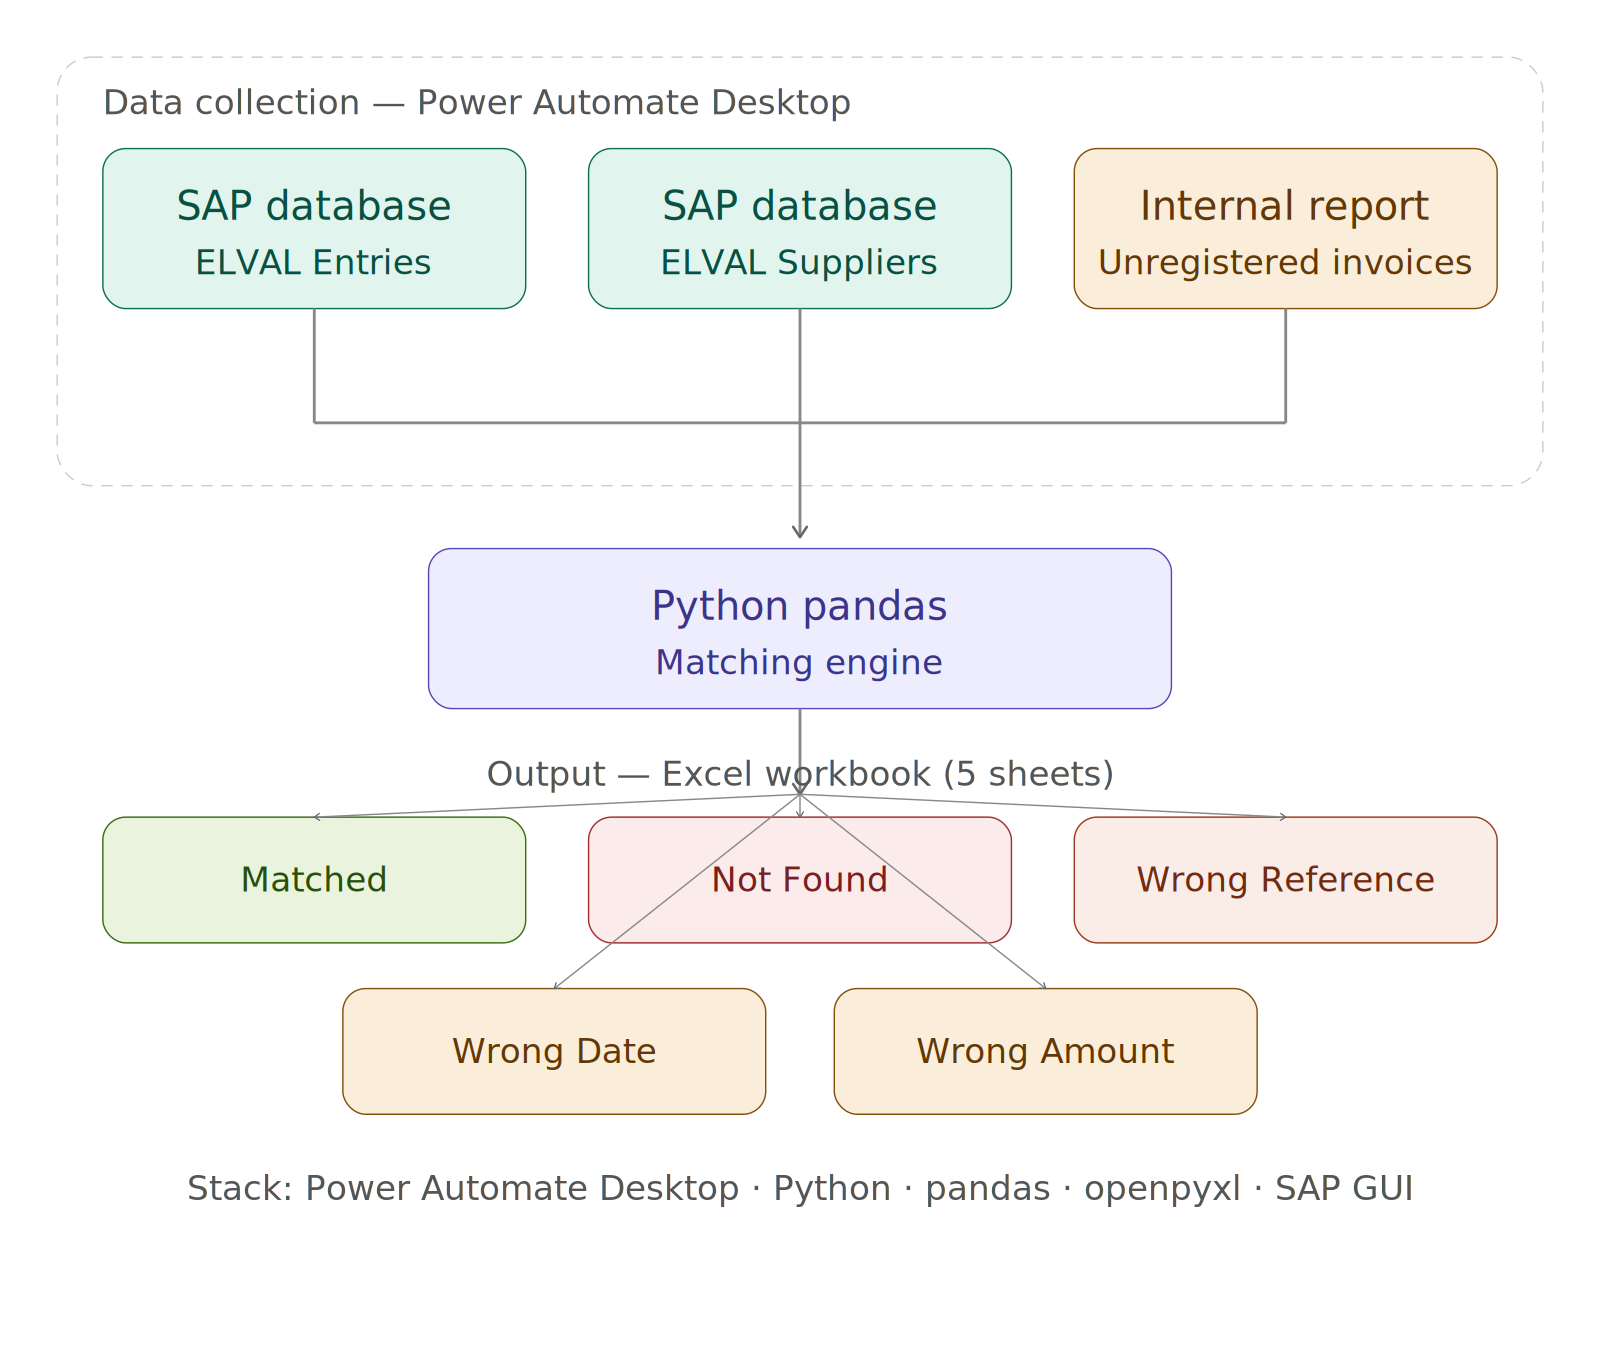
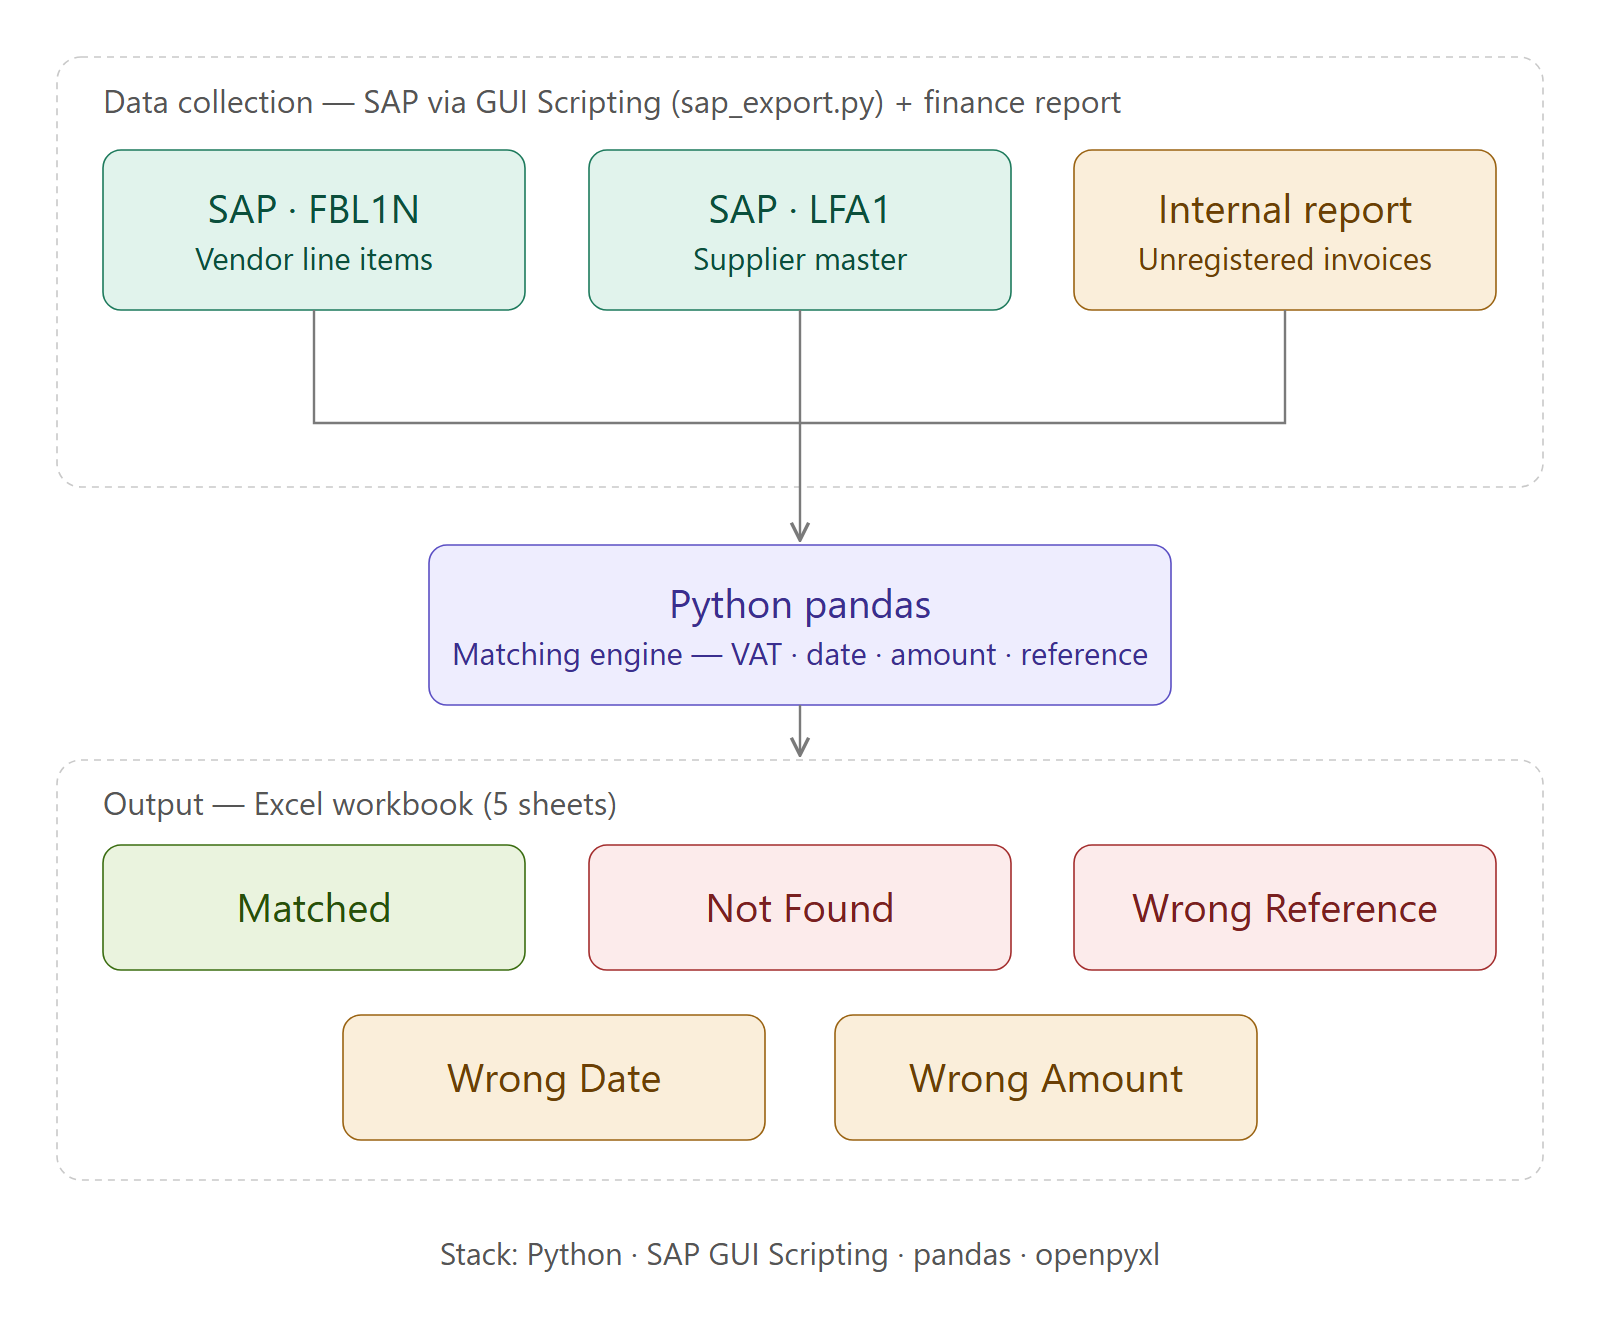
Add SAP GUI Scripting export (FBL1N + supplier master)
- sap_export.py: vendor line items (FBL1N) and supplier master (LFA1) exported via SAP GUI Scripting
- Handles 'file does not exist' exports, ASCII temp target, package-wise grid loading, new-file detection
- README: SAP export section with production lessons; updated workflow diagram

diff --git a/sap_export.py b/sap_export.py
@@ -1,0 +1,286 @@
+# ==============================================================================
+# sap_export.py — pulls the two SAP inputs of the reconciliation engine through
+# the SAP GUI Scripting API (no keystrokes, no screen coordinates):
+#
+#   1. Supplier master data  — custom table viewer on LFA1  -> SUPPLIERS_FILE
+#   2. Vendor line items     — FBL1N (company code, vendor ranges, posting dates,
+#                              saved layout)                -> LINE_ITEMS_FILE
+#
+# Display / export only — nothing is ever saved in SAP.
+#
+# Lessons from production built into the code:
+#   * The custom table export only accepts a target file that ALREADY exists
+#     ("File does not exist"), so an empty workbook is created first and the
+#     script waits for it to CHANGE, not merely to exist.
+#   * SAP writes the file to a plain-ASCII temp folder; Python moves it to the
+#     final (possibly non-ASCII) folder/name afterwards.
+#   * Large tables reach the GUI in several packages — the export starts only
+#     after the grid holds every row announced in the window title.
+#   * Every step logs the status bar and the open SAP windows, so a failed run
+#     can be diagnosed from the log alone.
+# ==============================================================================
+
+from __future__ import annotations
+
+import logging
+import os
+import re
+import shutil
+import subprocess
+import time
+from datetime import date
+from pathlib import Path
+
+import keyring
+import win32com.client
+import win32event
+from dateutil.relativedelta import relativedelta
+
+log = logging.getLogger("sap_export")
+
+# ── Configuration (placeholders) ──────────────────────────────────────────────
+SAP_CONNECTION = "YOUR_SAP_CONNECTION"
+SAP_CLIENT = "YOUR_CLIENT"
+SAP_USER = "YOUR_SAP_USER"
+KEYRING_SERVICE = "YOUR_SAP_KEYRING"          # python -m keyring set YOUR_SAP_KEYRING YOUR_SAP_USER
+SAP_MUTEX_NAME = "Global\\SAP_Automation_Lock"  # shared by every script that drives SAP
+
+COMPANY_CODE = "YOUR_COMPANY_CODE"
+VENDOR_RANGES = ["YOUR_VENDOR_RANGE_1*", "YOUR_VENDOR_RANGE_2*"]
+FBL1N_LAYOUT = "/YOUR_LAYOUT"
+TABLE_VIEWER_TCODE = "YOUR_TABLE_VIEWER"       # custom table display transaction
+
+EXPORT_DIR = Path(os.environ["LOCALAPPDATA"]) / "Temp" / "sap_export"   # ASCII only
+LOAD_DELAY = 30     # seconds to let a large grid settle before exporting
+STEP_DELAY = 5      # seconds before each export / save click
+
+MULTISEL = ("wnd[1]/usr/tabsTAB_STRIP/tabpSIVA/ssubSCREEN_HEADER:SAPLALDB:3010/"
+            "tblSAPLALDBSINGLE/ctxtRSCSEL_255-SLOW_I")
+
+
+def fmt_duration(seconds: float) -> str:
+    m, s = divmod(int(round(seconds)), 60)
+    return f"{m}m {s}s" if m else f"{s}s"
+
+
+# ── SAP session ───────────────────────────────────────────────────────────────
+
+def close_sap() -> None:
+    for proc in ("saplogon.exe", "saplgpad.exe", "sapgui.exe", "nwbc.exe"):
+        subprocess.call(["taskkill", "/F", "/T", "/IM", proc],
+                        stderr=subprocess.DEVNULL, stdout=subprocess.DEVNULL)
+
+
+def sap_wait(session, timeout: float = 300) -> None:
+    end = time.time() + timeout
+    while time.time() < end:
+        try:
+            if not session.Busy:
+                return
+        except Exception:
+            return
+        time.sleep(0.5)
+
+
+def sap_login():
+    password = keyring.get_password(KEYRING_SERVICE, SAP_USER)
+    if not password:
+        raise RuntimeError(f"No password in Credential Manager: python -m keyring set {KEYRING_SERVICE} {SAP_USER}")
+    close_sap()
+    time.sleep(2)
+    subprocess.Popen('start "" saplogon.exe', shell=True)
+    time.sleep(3)
+    gui = None
+    for _ in range(30):
+        try:
+            gui = win32com.client.GetObject("SAPGUI")
+            break
+        except Exception:
+            time.sleep(1)
+    if gui is None:
+        raise RuntimeError("SAP GUI Scripting engine not found (timeout).")
+    session = gui.GetScriptingEngine.OpenConnection(SAP_CONNECTION, True).Children(0)
+    time.sleep(1)
+    session.findById("wnd[0]/usr/txtRSYST-MANDT").text = SAP_CLIENT
+    session.findById("wnd[0]/usr/txtRSYST-BNAME").text = SAP_USER
+    session.findById("wnd[0]/usr/pwdRSYST-BCODE").text = password
+    session.findById("wnd[0]/usr/txtRSYST-LANGU").text = "EN"
+    session.findById("wnd[0]").sendVKey(0)
+    sap_wait(session)
+    sbar = session.findById("wnd[0]/sbar")
+    if sbar.MessageType in ("E", "A"):
+        raise RuntimeError(f"SAP login: {sbar.Text}")
+    session.findById("wnd[0]").maximize()
+    return session
+
+
+def sap_tcode(session, code: str) -> None:
+    session.findById("wnd[0]/tbar[0]/okcd").text = f"/n{code}"
+    session.findById("wnd[0]").sendVKey(0)
+    sap_wait(session)
+
+
+def sap_state(session, step: str) -> None:
+    """Log what SAP shows: status bar, open windows, and the path/file fields as SAP reads them back."""
+    try:
+        sbar = session.findById("wnd[0]/sbar")
+        log.debug(f"  [{step}] wnd[0]='{session.findById('wnd[0]').Text}' | sbar {sbar.MessageType}: '{sbar.Text}'")
+    except Exception as e:
+        log.debug(f"  [{step}] SAP not responding: {e}")
+        return
+    for n in (1, 2):
+        try:
+            w = session.findById(f"wnd[{n}]")
+        except Exception:
+            continue
+        extra = ""
+        for fld in ("DY_PATH", "DY_FILENAME"):
+            try:
+                extra += f" | {fld}='{session.findById(f'wnd[{n}]/usr/ctxt{fld}').text}'"
+            except Exception:
+                pass
+        log.debug(f"  [{step}] wnd[{n}]='{w.Text}'{extra}")
+
+
+# ── Export helpers ────────────────────────────────────────────────────────────
+
+def wait_grid_loaded(session, grid_id: str, title: str, timeout: float = 600) -> None:
+    """Large tables arrive in packages: wait until RowCount reaches the 'Rows N' of the window title."""
+    m = re.search(r"(?:Rows|Γραμμές)\s+([\d.,]+)", title)
+    expected = int(re.sub(r"[.,]", "", m.group(1))) if m else None
+    t = time.time()
+    while time.time() - t < timeout:
+        sap_wait(session, timeout)
+        try:
+            rows = session.findById(grid_id).RowCount
+        except Exception:
+            rows = None
+        if expected is None or (rows is not None and rows >= expected):
+            log.info(f"  grid loaded: {rows} / {expected} rows in {fmt_duration(time.time() - t)}")
+            return
+        time.sleep(1)
+    log.warning(f"  grid did not reach {expected} rows in {fmt_duration(timeout)} — continuing")
+
+
+def save_dialog(session, final_path: Path, sap_name: str, precreate: bool = False, timeout: float = 300) -> None:
+    """Fill SAP's Directory/File dialog with an ASCII temp target, wait for a NEW file, move it to final_path.
+    The old final file is replaced only after a successful export."""
+    EXPORT_DIR.mkdir(parents=True, exist_ok=True)
+    path = EXPORT_DIR / sap_name
+    path.unlink(missing_ok=True)
+    if precreate:
+        from openpyxl import Workbook
+        Workbook().save(path)               # the custom export only overwrites existing files
+    before = (path.stat().st_mtime, path.stat().st_size) if path.exists() else None
+
+    session.findById("wnd[1]/usr/ctxtDY_PATH").text = str(EXPORT_DIR)
+    session.findById("wnd[1]/usr/ctxtDY_FILENAME").text = sap_name
+    sap_state(session, "dialog filled")
+    time.sleep(STEP_DELAY)
+    session.findById("wnd[1]/tbar[0]/btn[0]").press()
+    sap_wait(session, timeout)
+    sap_state(session, "after Continue")
+    for _ in range(2):                      # dialog still open -> SAP wants a second confirmation
+        try:
+            session.findById("wnd[1]/usr/ctxtDY_FILENAME")
+        except Exception:
+            break
+        time.sleep(STEP_DELAY)
+        session.findById("wnd[1]/tbar[0]/btn[0]").press()
+        sap_wait(session, timeout)
+
+    def written() -> bool:
+        if not path.exists():
+            return False
+        st = path.stat()
+        if before and (st.st_mtime, st.st_size) == before:
+            return False
+        time.sleep(2)
+        return path.stat().st_size == st.st_size      # finished writing
+
+    t = time.time()
+    while not written():
+        if time.time() - t > timeout:
+            sap_state(session, "file not found")
+            raise RuntimeError(f"SAP export did not produce {sap_name}")
+        time.sleep(1)
+    log.debug(f"  {sap_name}: {path.stat().st_size:,} bytes in {fmt_duration(time.time() - t)}")
+    final_path.parent.mkdir(parents=True, exist_ok=True)
+    shutil.move(str(path), str(final_path))
+
+
+def export_suppliers(session, target: Path) -> None:
+    """Supplier master (LFA1) via the custom table viewer, display mode only."""
+    sap_tcode(session, TABLE_VIEWER_TCODE)
+    session.findById("wnd[0]/usr/ctxtTABNAME").text = "LFA1"
+    session.findById("wnd[0]/usr/chkDISP").selected = True         # display only
+    session.findById("wnd[0]/tbar[1]/btn[8]").press()               # Execute
+    sap_wait(session, 600)
+    grid = "wnd[0]/usr/shell/shellcont[1]/shell"
+    wait_grid_loaded(session, grid, session.findById("wnd[0]").Text)
+    time.sleep(LOAD_DELAY)
+    t = time.time()
+    session.findById(grid).pressToolbarButton("EXPR")              # export to Excel
+    sap_wait(session, 600)
+    log.info(f"  export dialog opened in {fmt_duration(time.time() - t)}")
+    time.sleep(LOAD_DELAY)
+    save_dialog(session, target, "LFA1.xlsx", precreate=True)
+    log.info(f"Saved: {target.name}")
+
+
+def export_line_items(session, target: Path) -> None:
+    """FBL1N: vendor ranges (multiple selection), company code, all items,
+    posting dates from 1 Jan of (today - 7 months) to today, saved layout."""
+    year = (date.today() - relativedelta(months=7)).year
+    date_from, date_to = f"01.01.{year}", date.today().strftime("%d.%m.%Y")
+    sap_tcode(session, "FBL1N")
+    session.findById("wnd[0]/usr/btn%_KD_LIFNR_%_APP_%-VALU_PUSH").press()   # multiple selection
+    sap_wait(session)
+    for i, v in enumerate(VENDOR_RANGES):
+        session.findById(f"{MULTISEL}[1,{i}]").text = v
+    session.findById("wnd[1]/tbar[0]/btn[8]").press()                        # Copy
+    sap_wait(session)
+    session.findById("wnd[0]/usr/ctxtKD_BUKRS-LOW").text = COMPANY_CODE
+    session.findById("wnd[0]/usr/radX_AISEL").select()                        # all items
+    session.findById("wnd[0]/usr/ctxtSO_BUDAT-LOW").text = date_from
+    session.findById("wnd[0]/usr/ctxtSO_BUDAT-HIGH").text = date_to
+    session.findById("wnd[0]/usr/ctxtPA_VARI").text = FBL1N_LAYOUT
+    session.findById("wnd[0]/tbar[1]/btn[8]").press()                        # Execute
+    sap_wait(session, 600)
+    log.info(f"FBL1N {COMPANY_CODE} {date_from} - {date_to}: {session.findById('wnd[0]/sbar').Text}")
+    time.sleep(STEP_DELAY)
+    session.findById("wnd[0]/mbar/menu[0]/menu[3]/menu[1]").select()        # List > Export > Spreadsheet
+    sap_wait(session)
+    time.sleep(STEP_DELAY)
+    session.findById("wnd[1]/tbar[0]/btn[0]").press()                        # format: XLSX
+    sap_wait(session)
+    save_dialog(session, target, "FBL1N.xlsx")
+    log.info(f"Saved: {target.name}")
+
+
+def run(suppliers_file: Path, line_items_file: Path, suppliers: bool = True) -> None:
+    """One SAP login for both exports; SAP is always closed at the end."""
+    t = time.time()
+    mutex = win32event.CreateMutex(None, False, SAP_MUTEX_NAME)
+    win32event.WaitForSingleObject(mutex, win32event.INFINITE)
+    session = None
+    try:
+        session = sap_login()
+        if suppliers:
+            export_suppliers(session, suppliers_file)
+        export_line_items(session, line_items_file)
+    except Exception:
+        if session is not None:
+            sap_state(session, "ERROR")
+        raise
+    finally:
+        close_sap()
+        win32event.ReleaseMutex(mutex)
+    log.info(f"SAP closed — SAP time: {fmt_duration(time.time() - t)}")
+
+
+if __name__ == "__main__":
+    logging.basicConfig(level=logging.INFO, format="%(asctime)s [%(levelname)s] %(message)s")
+    log.setLevel(logging.DEBUG)
+    out = Path(r"C:\Users\YOUR_USERNAME\Desktop\MATCHING REPORT")
+    run(out / "SUPPLIERS.xlsx", out / "LINE_ITEMS.xlsx")

diff --git a/README.md b/README.md
@@ -22,7 +22,25 @@ This engine automates the entire matching process and produces a structured outp
 | `ΠΡΟΜΗΘΕΥΤΕΣ.xlsx` | SAP export (Power Automate Desktop) | Supplier master data (VAT lookup) |
 | `ΑΚΑΤΑΧΩΡΗΤΑ.xlsx` | Finance team (shared folder) | Combined ELVAL + HALCOR unposted entries |
 
-> In production, `ΕΛΒΑΛ.xlsx` and `ΠΡΟΜΗΘΕΥΤΕΣ.xlsx` are automatically exported from SAP GUI using a Power Automate Desktop + pywinauto automation, eliminating manual data collection entirely.
+> In production, `ΕΛΒΑΛ.xlsx` and `ΠΡΟΜΗΘΕΥΤΕΣ.xlsx` are exported from SAP automatically by [`sap_export.py`](sap_export.py), using the **SAP GUI Scripting API** — eliminating manual data collection entirely.
+
+### SAP export (`sap_export.py`)
+
+Originally a Power Automate Desktop flow (recorded clicks and `SendKeys`); now driven by element IDs through SAP GUI Scripting:
+
+- **Supplier master** — LFA1 through a table-display transaction, in display mode only → Excel
+- **Vendor line items** — FBL1N with vendor ranges (multiple selection), company code, all items, posting-date window and a saved layout → Excel
+- One login for both exports, a system-wide mutex so no two SAP automations collide, credentials from the Windows Credential Manager, nothing ever saved in SAP
+
+Production lessons built in:
+
+| Problem seen in production | Handling |
+|---|---|
+| The table export answered *"File does not exist"* | It only overwrites existing files → an empty workbook is created first and the script waits for it to **change** |
+| Export target with non-ASCII folder/file names | SAP writes to an ASCII temp folder; Python moves the file to its final name |
+| ~27k-row table arrives in packages, *"memory low"* warning | Export starts only after the grid holds every row from the window title |
+| A previous run's file could be mistaken for the new one | Completion = modification time changed **and** size stopped growing |
+| Failures were hard to diagnose | Each step logs the status bar, open windows and the dialog fields as SAP reads them back |
 
 ### Matching Logic
 
@@ -49,6 +67,7 @@ Suppliers often submit reference numbers in different formats than internal SAP 
 - Python 3
 - pandas
 - openpyxl
+- SAP GUI Scripting (win32com) — `sap_export.py`, Windows + SAP GUI only
 
 ## Usage
 
